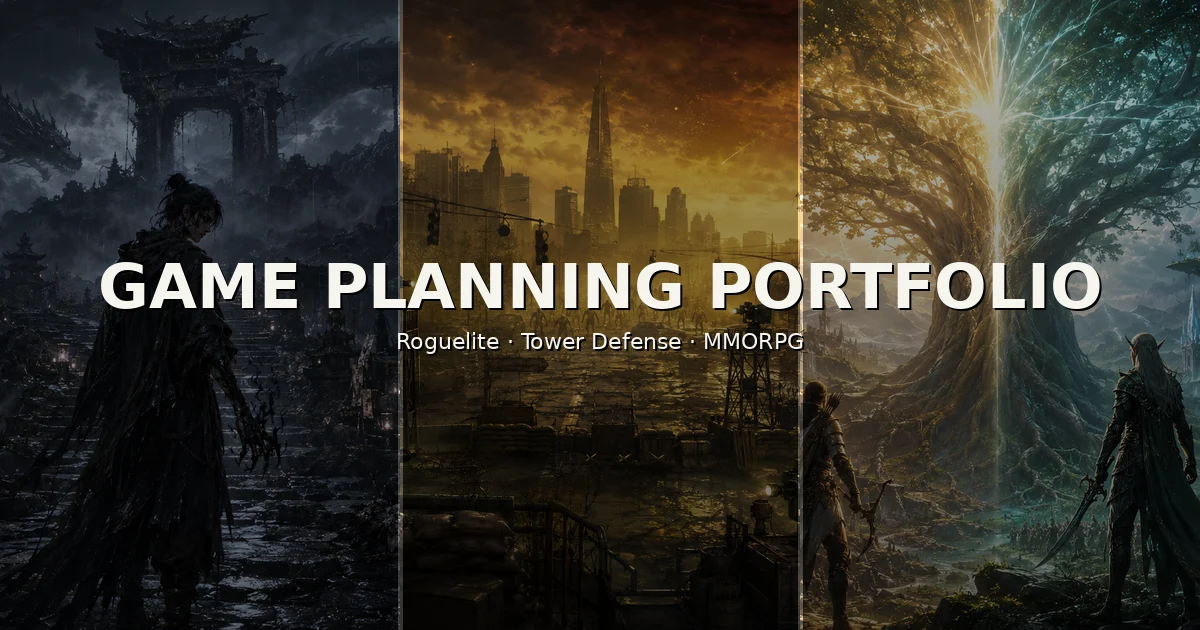
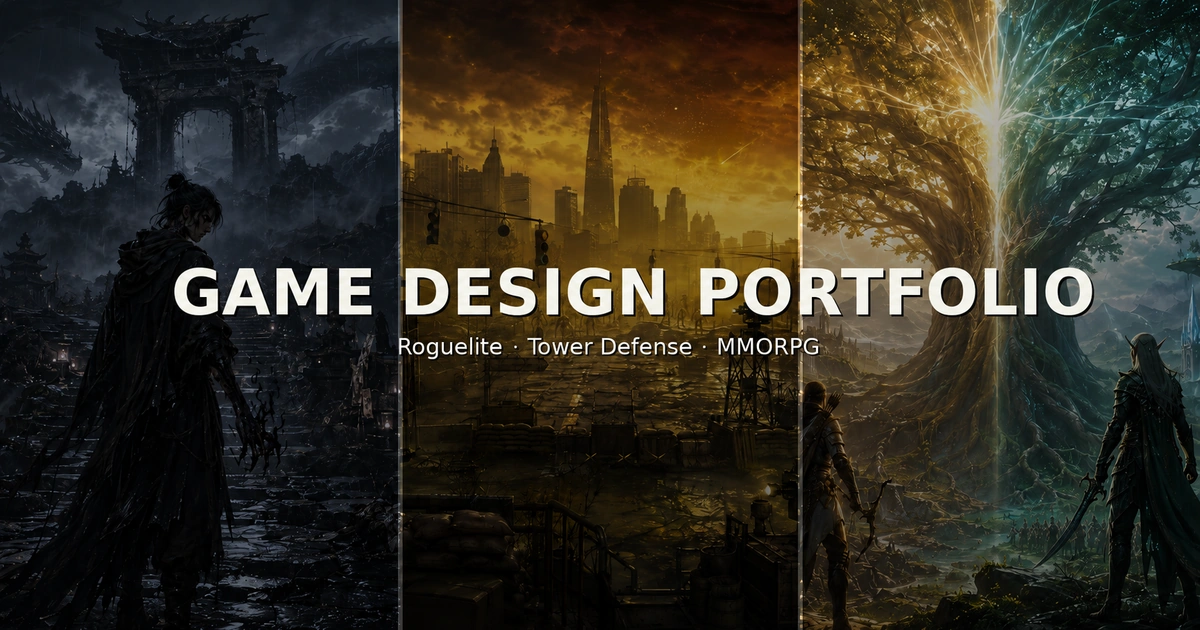
commit_20260626_second

diff --git a/index.html b/index.html
@@ -4,10 +4,10 @@
   <meta charset="UTF-8">
   <meta name="viewport" content="width=device-width, initial-scale=1.0">
   <title>Game Design Portfolio</title>
-  <meta name="description" content="로그라이트, 타워디펜스, MMORPG 프로젝트의 기획서와 언리얼엔진 프로토타입을 정리한 게임기획 포트폴리오입니다.">
+  <meta name="description" content="표윤오의 게임기획 포트폴리오입니다.">
   <meta name="keywords" content="게임기획, 게임기획 포트폴리오, 게임기획자, 레벨디자인, 시스템기획, Unreal Engine">
   <meta property="og:title" content="Game Design Portfolio">
-  <meta property="og:description" content="로그라이트, 타워디펜스, MMORPG 프로젝트의 기획서와 언리얼엔진 프로토타입을 정리한 게임기획 포트폴리오입니다.">
+  <meta property="og:description" content="표윤오의 게임기획 포트폴리오입니다.">
   <meta property="og:type" content="website">
   <meta property="og:image" content="./assets/images/common/site-og-image.png">
   <link rel="icon" href="./assets/images/common/favicon.svg" type="image/svg+xml">